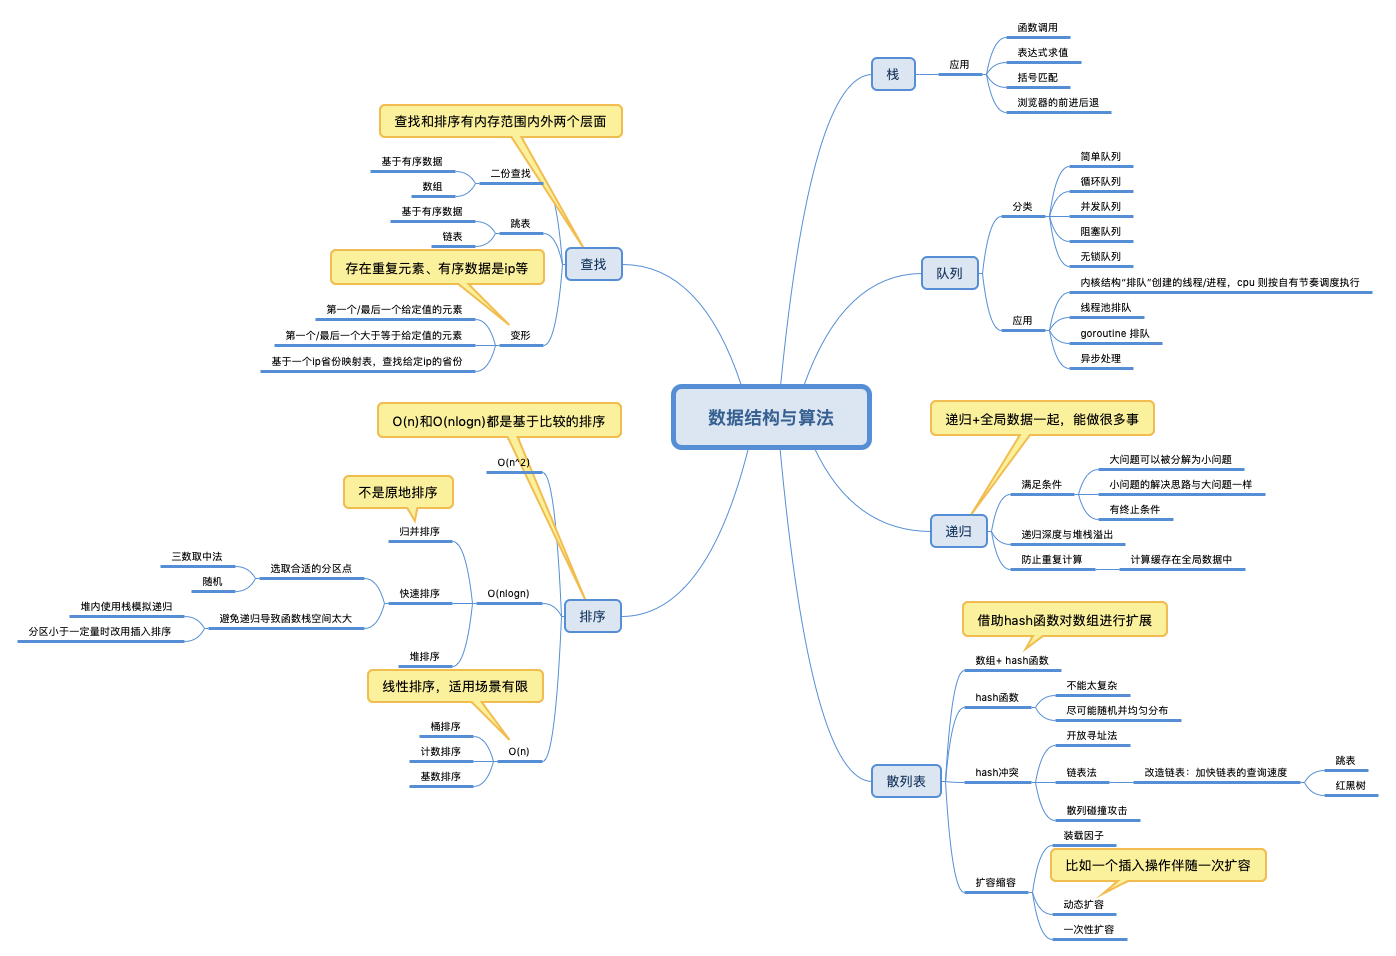
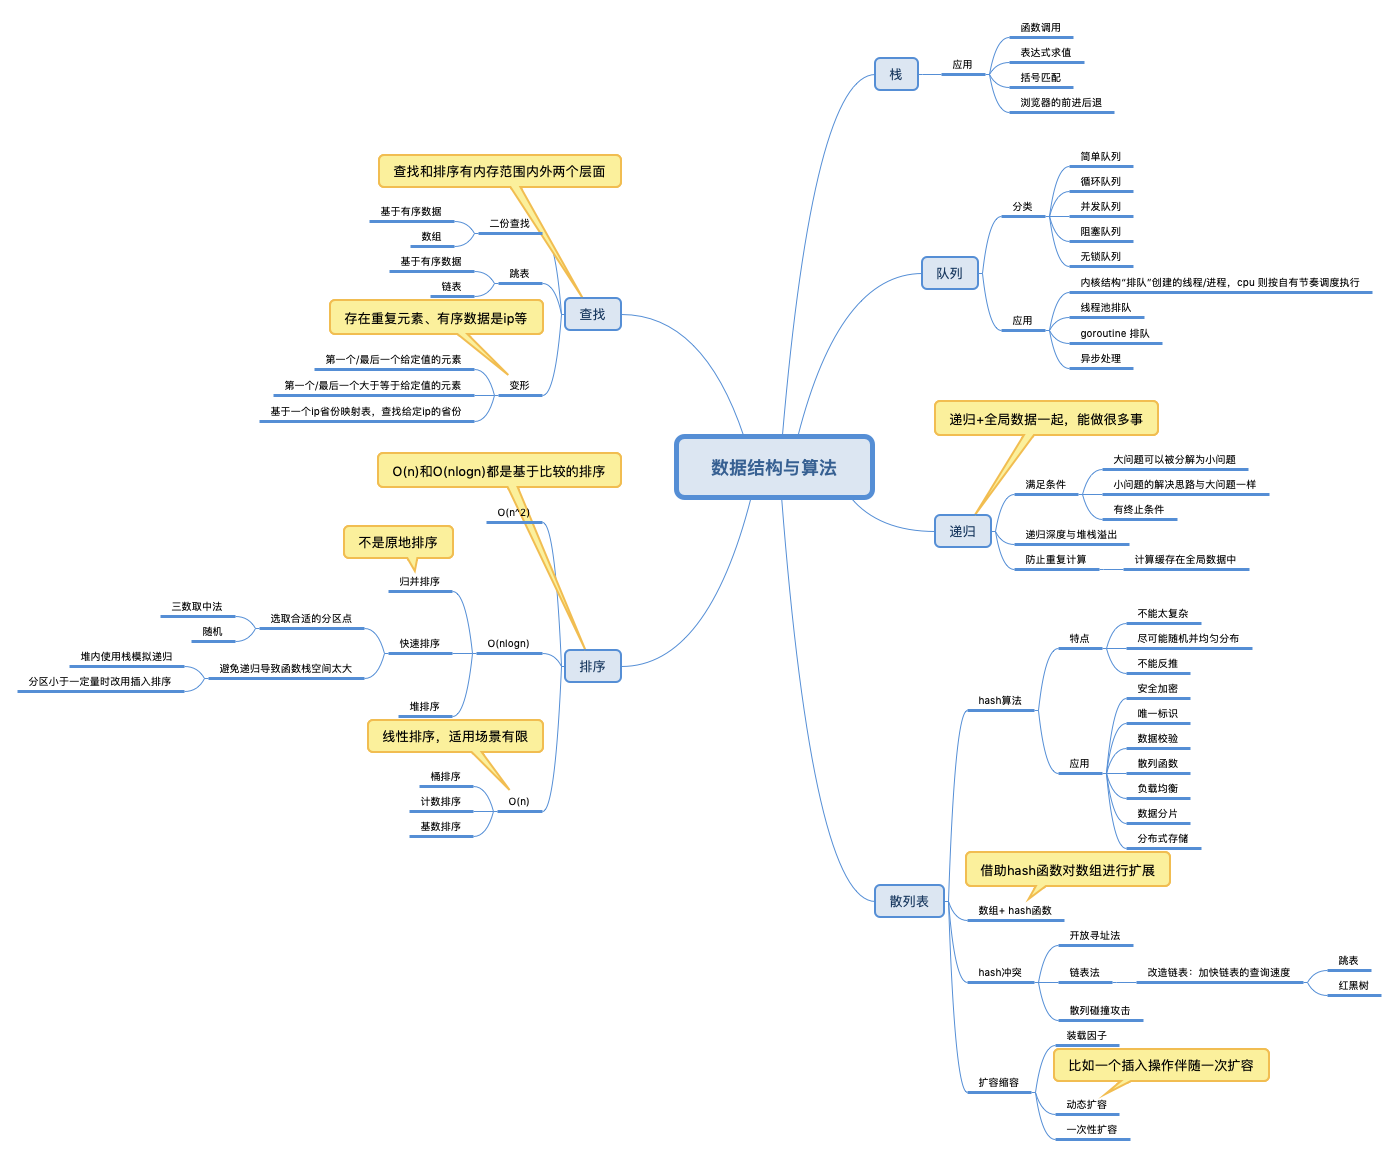
[fix]add doc

Changed region(s): [[0.0, 0.0, 0.9857, 1.0], [0.4928, 0.3033, 0.5236, 0.3337]]

diff --git a/_posts/Technology/Algorithm/2018-09-19-beauty_of_algorithm.md b/_posts/Technology/Algorithm/2018-09-19-beauty_of_algorithm.md
@@ -65,6 +65,13 @@ keywords: 数据结构与算法之美
 
 ## 常用算法
 
+[以新的角度看数据结构](http://qiankunli.github.io/2016/03/15/data_structure.html)
+
+1. 数组 + 哈希函数 就成了一个散列表。 对于跳表来说，与其说数据结构本来就是那样子，还不如说为了在链表上提高查询速度而衍生的数据结构。对于B+树，换个角度想，我们可以说先有底层那一条叶子链，再有的上层索引结构。
+2. 阐述了为什么查询和排序是基本的算法，以及教程中提到的为什么散列表经常和链表一起使用。
+
+### 排序
+
 快排伪代码
 
 	// 快速排序，A 是数组，n 表示数组的大小
@@ -88,12 +95,13 @@ keywords: 数据结构与算法之美
 
 排序的本质可以这样来表述：一组未排序的N个数字，它们一共有N!种重排，其中只有一种排列是满足题意的。将排序问题看成和猜数字（给一定范围，猜测提问者写好的数字）一样，是通过**问问题**来缩小/排除（narrow down）结果的可能性区间，这样一来，就会发现，“最好的问题”就是那些能够均分所有可能性的问题，因为那样的话不管问题的答案如何，都能排除掉k-1/k（k为问题的答案有多少种输出——猜数字里面是2，称球里面是3）种可能性，而不均衡的问题总会有一个或一些答案分支排除掉的可能性要小于k-1/k。于是策略的下界就被拖累了。
 
-[以新的角度看数据结构](http://qiankunli.github.io/2016/03/15/data_structure.html)
-
-1. 数组 + 哈希函数 就成了一个散列表。 对于跳表来说，与其说数据结构本来就是那样子，还不如说为了在链表上提高查询速度而衍生的数据结构。对于B+树，换个角度想，我们可以说先有底层那一条叶子链，再有的上层索引结构。
-2. 阐述了为什么查询和排序是基本的算法，以及教程中提到的为什么散列表经常和链表一起使用。
 
 
+### 哈希
+
+哈希算法的定义和原理非常简单，基本上一句话就可以概括了：将任意长度的二进制值串映射为固定长度的二进制值串。
+
+第21章未看完
 
 
 ## 小结

diff --git a/_posts/Life/2018-11-02-deeper_or_wider.md b/_posts/Life/2018-11-02-deeper_or_wider.md
@@ -13,7 +13,7 @@ keywords: 认知
 
 理论上先深度后广度，是一条自然的路径。毕竟有太多泛而不精的半瓶水。
 
-广度的必要性
+### 广度的必要性
 
 1. 某些职位就要求足够的广度
 2. 有的人（比如笔者）兴趣比较发散，不太喜欢只深挖一个
@@ -44,5 +44,22 @@ keywords: 认知
 2. 广度和深度 不是学习知识的区分方式，还不如说要基础知识深度学，应用型业务型知识宽泛学
 3. 一个重点的是需要
 4. 一个维度是时间，足够的时间、足够的积淀 在广度和深度上都有一定突破。
+
+### 拓展——如何拓展个人能力
+
+来自极客时间 《技术领导力300讲》 笔记
+
+1. 懂业务，**看得懂各种业务上的变化（这一点我还差的好远，其实就是在产品那块没有一套认知体系和方法论）**。对自己在技术上的判断有特别大的帮助，特别是在优先级、重要性的判断准确性上。
+2. 深度 / 广度并重，我认为人的知识要形成 T 字形的结构，有一个专长的方向，这是一竖，同时要掌握相关的知识，这是一横，这两个方向是相互促进的。没有一定的宽度，其实你的专长深度是有限的，没有一定的深度，横跨的知识就会很松散，而且很难形成结构，大家应该都有这个经验，你在一个方向感到进步很慢，去涉猎一下相关的知识，很多时候就能帮你打开原来方向的困局。
+3. 人的技术，高端技术人的日常工作大概是 40% 跟人相关，30% 跟业务相关，剩下 30% 才跟技术相关。我认为掌握人的技术，有两点非常重要：一是懂表达，二是懂尊重。个人感觉
+
+	* 沟通就是先认知，认知对方对这个事儿的理解程度，然后以对方可以接受的语言来表达。
+	* 懂尊重，就是要帮助他人成长，好的技术人都容易有英雄情结，视比自己水平低的人如草芥，沟通基本以鄙视为主，所以必须从内心深处尊重其他人，才能建立和发展好一个技术团队。
+
+
+
+
+
+
 
 

diff --git a/_posts/Life/2018-11-02-mind_mentality.md b/_posts/Life/2018-11-02-mind_mentality.md
@@ -15,7 +15,7 @@ keywords: 认知
 
 一日，正一个工作干的兴起，一个其它部门的同事找我帮忙解决一个问题，他问题也说的不是特别清楚，但看着很复杂的样子，于是我就说这事儿弄不了（留给他最原始麻烦的办法去做）。第二天早上去公司（我有提前一两个小时上班的习惯）， 闲下来尝试做了一下，发现不是很麻烦。
 
-我发现一个工作上的误区：其实很多事不是不能干，而是负责事情太多，正兴起的时候中止掉去干一个不知道花多长时间的事情，人的内心是容易拒绝的。
+我发现一个工作上的误区：很多事其实不是不能干，而是当下事情太多，正兴起的时候中止掉去干一个不知道花多长时间的事情，人的内心是容易拒绝的。
 
 在分布式时代，消息调用结果有三种：成功、失败、超时。而我们还停留在单机的成功、失败二元时代：做与不做、做不了，会与不会，想与不想，同意与不同意。其实呢：
 
@@ -30,6 +30,14 @@ keywords: 认知
 2. 大公司还是小公司
 3. 要不要紧跟潮流学习人工智能、区块链等
 
+## 有质量的的提问
+
+1. 项目报错了，帮忙看一下。一般附上一个哭脸或色色的表情
+2. xx项目报了xx错误，帮忙看一下，项目地址在xx，在xxx可以看到报错信息
+3. xx项目报了xx错误，帮忙看一下，项目地址在xx，在xxx可以看到报错信息。我一开始认为是因为xx，经过验证不是这个原因，一时没有思路。
+4. xx项目报了xx错误，帮忙看一下，项目地址在xx，在xxx可以看到报错信息。我一开始认为是因为xx，经过验证不是这个原因，一时没有思路。这个项目昨天还是好的，今天我改了xx就不行了。
+
+很多时候，等你把错误、前因后果都说清楚了，估计自己就找到答案了。
 
 ## 靠搜索而不是靠分析
 

diff --git a/_posts/Life/2018-03-31-2018_review.md b/_posts/Life/2018-03-31-2018_review.md
@@ -261,4 +261,7 @@ keywords: coder
 2. 随着编程人数的增加，编程能力已经不是一个稀缺资源了。
 
 
+互联网有一个趋势，就是大公司大平台的技术已经过剩，在自身业务已经逐渐趋向天花板的情况下，技术部也开始思考作为一个业务单元或者说事业部向外拓展业务的问题了。而面向企业客户输出各种技术服务，帮助传统非互联网企业向 + 互联网转型，显然是一片很大的蓝海。
+
+
 [解读  你真正理解什么是Cloud Native吗？](http://www.dockone.io/article/688)持续交付、DevOps和微服务分别描述了cloud-native应用的为什么、怎么做和是什么。这些竞争优势迅速成为玩转软件游戏的赌注。

diff --git a/_posts/Life/2018-11-13-technical_leadership_note.md b/_posts/Life/2018-11-13-technical_leadership_note.md
@@ -41,6 +41,8 @@ keywords: 认知
 
 对于同一件事，你能从中参悟到什么，理解到什么程度，是一个管理者是否可以持续提高的关键所在。所在作为一个管理者，你要不断的反思自己的决策、沟通、影响、开放当中的问题， 是否可以有更好的方法来提高。
 
+两个人互相审视，一定会发现一个盲点，即你身上的问题我知道，而你不自知。
+
 
 个人感觉：
 

diff --git a/_posts/Technology/Architecture/2018-06-29-code_move_art.md b/_posts/Technology/Architecture/2018-06-29-code_move_art.md
@@ -36,7 +36,9 @@ keywords: abtest
 
 ## 回调很有用
 
-以按行读写代码为例
+2018.11.16 补充
+
+以按行读取文件代码为例
 
     public void readFile() throws IOException {
         FileInputStream in = new FileInputStream("test");
